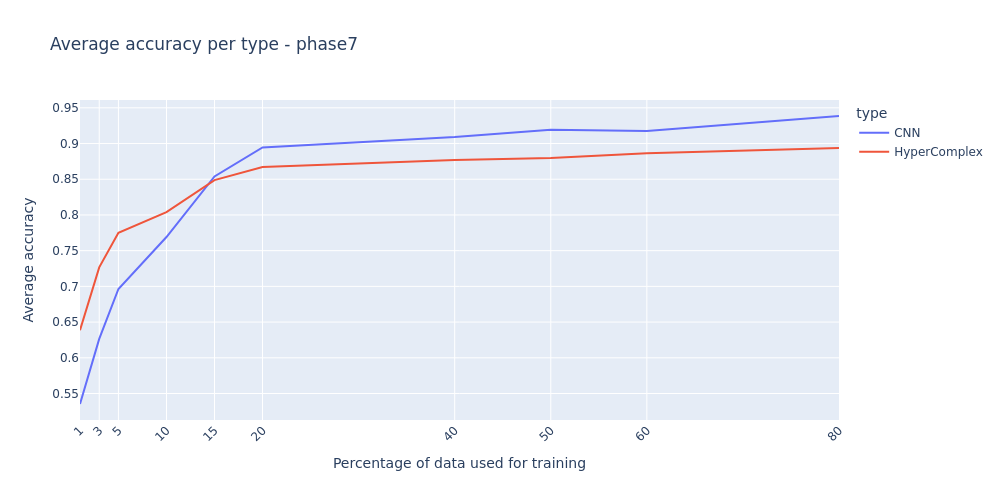
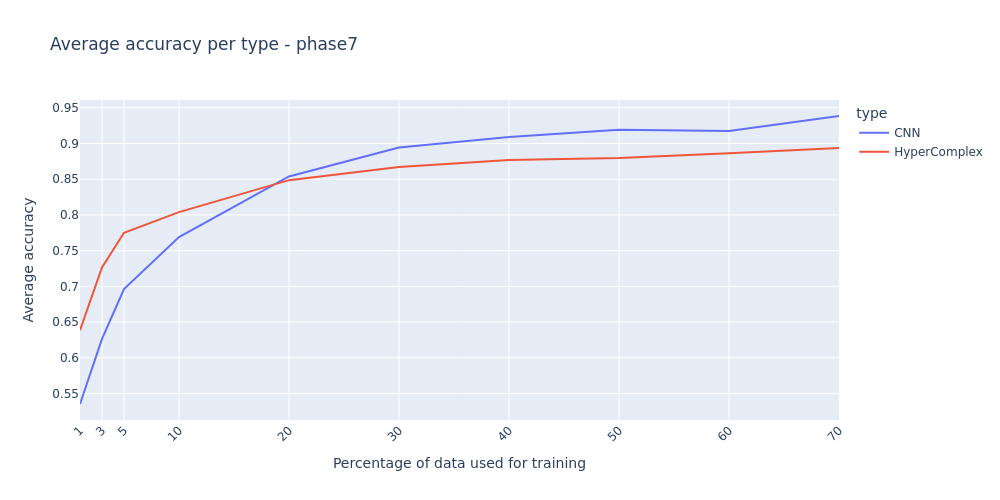
Update plots

diff --git a/analysis/MultiRunAnalysis.py b/analysis/MultiRunAnalysis.py
@@ -10,7 +10,7 @@ RUNS_TO_TEST = ["run1", "run2", "run3", "run4", "run5", "run6", "run7", "run8", 
 RUN_LABELS_SPLIT_1234 = [1, 3, 5, 10, 15, 20, 40, 50, 60, 80] # For phase 1, 2, 3, 4
 RUN_LABELS_SPLIT_5_PLUS = [1, 3, 5, 10, 20, 30, 40, 50, 60, 70] # For phase 5-14, 19-20
 RUN_LABELS_SPLIT_16_PLUS = [70] # For phase 16+
-start_phase = 1        # Inclusive
+start_phase = 7        # Inclusive
 end_phase = 7          # Inclusive
 # ---------------------------------------------------------
 
@@ -225,7 +225,7 @@ phases_to_compare = []
 
 for phase in [f"phase{i}" for i in range(start_phase, end_phase + 1)]:
     phase_data = read_phase_data(phase, RUNS_TO_TEST, only_hypercomplex=False)
-    plot_multirun_phase_results(phase_data, phase, RUN_LABELS_SPLIT_1234, "accuracy")
+    plot_multirun_phase_results(phase_data, phase, RUN_LABELS_SPLIT_5_PLUS, "accuracy")
     # plot_multirun_phase_results(phase_data, phase, RUN_LABELS_SPLIT_5_PLUS, "F1-Score")
     phases_to_compare.append(phase_data)
 
